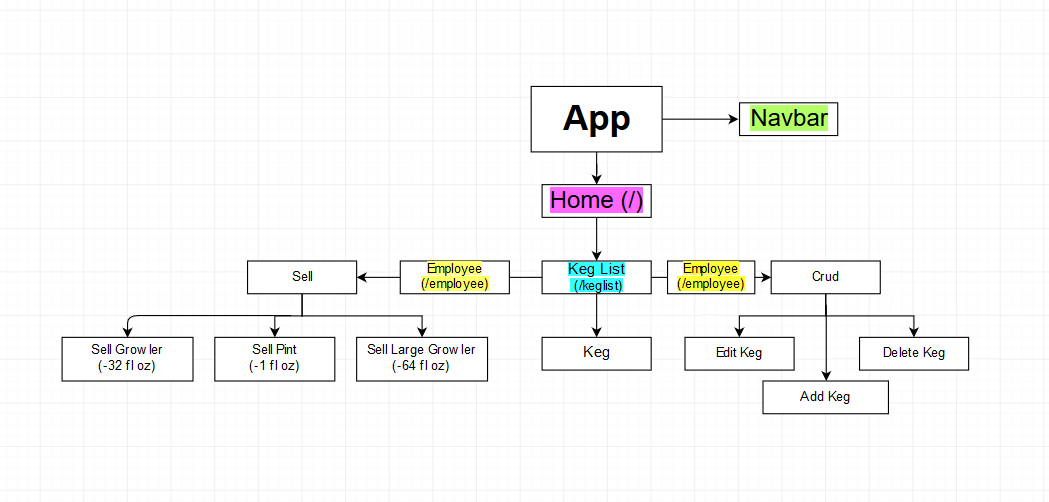
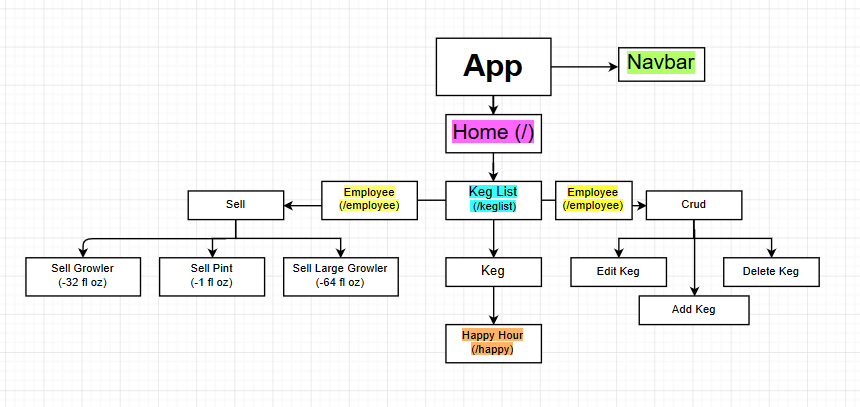
update Diagram and Home.jsx

Changed region(s): [[0.0302, 0.0885, 0.9674, 0.914], [0.2116, 0.4423, 0.3326, 0.4717]]

diff --git a/src/components/Home.jsx b/src/components/Home.jsx
@@ -22,8 +22,8 @@ const Home = () => {
       {List.map((props, index) => {
         return (
           <div key={index}>
-            <h3>Name: {props.name}</h3>
-            <h3><em>Brewer: {props.brewer}</em></h3>
+            <h3><b>Name: {props.name}</b></h3>
+            <h4><em>Brewer: {props.brewer}</em></h4>
             <h6>Description: {props.description}</h6>
             <h6 id="vol">Alcohol by volume(ABV): {props.abv}%</h6>
             <h6>${props.price}</h6>
